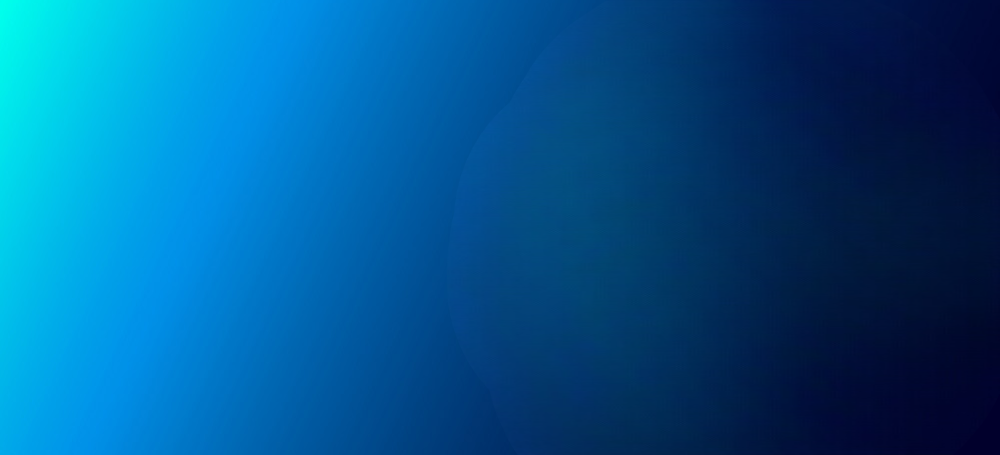
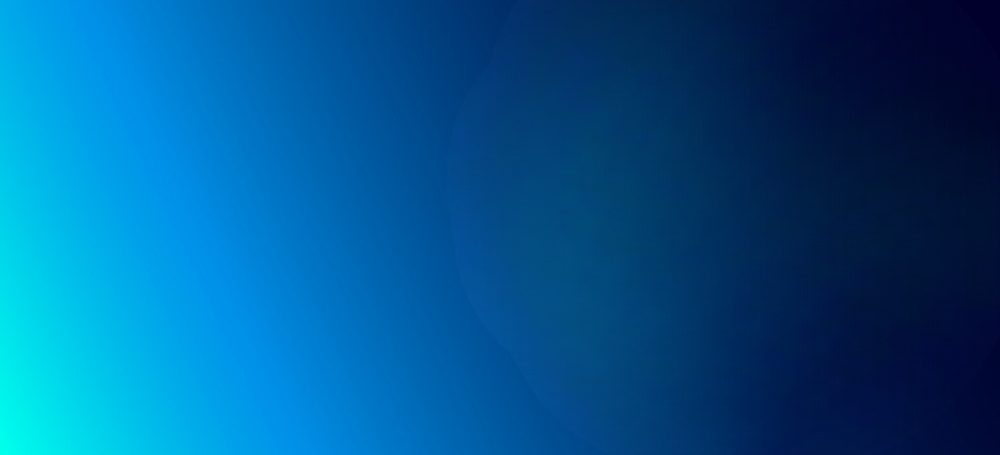
new features

diff --git a/src/components/Cases.jsx b/src/components/Cases.jsx
@@ -1,0 +1,50 @@
+import React, { useRef, useState } from 'react';
+import { Swiper, SwiperSlide } from 'swiper/react';
+
+import 'swiper/css';
+import 'swiper/css/pagination';
+
+import { Pagination } from 'swiper/modules';
+import { casesImages, navLinks } from '../constants';
+
+const Cases = () => {
+  return (
+    <Swiper
+        slidesPerView={1}
+        spaceBetween={10}
+        pagination={{
+          clickable: true,
+        }}
+        breakpoints={{
+          '@0.00': {
+            slidesPerView: 1,
+            spaceBetween: 10,
+          },
+          '@0.75': {
+            slidesPerView: 2,
+            spaceBetween: 20,
+          },
+          '@1.00': {
+            slidesPerView: 3,
+            spaceBetween: 40,
+          },
+          '@1.50': {
+            slidesPerView: 6,
+            spaceBetween: 50,
+          },
+        }}
+        modules={[Pagination]}
+        style={{ backgroundPosition: window.innerWidth < 1024 && '50% 50%' }}
+        className="mySwiper flex flex-col-reverse justify-center gap-y-24 items-center min-h-screen bg-[url(/./assets/images/bg-normal2.png)] bg-no-repeat bg-cover"
+      >
+        <h2 className="text-2xl lg:text-5xl">Maskice</h2>
+        {casesImages.map((single, i) => (
+            <SwiperSlide key={i} className='h-[400px] flex items-center justify-center'>
+                <img src={single} alt="case" className='h-full' />
+            </SwiperSlide>
+        ))}
+      </Swiper>
+  )
+}
+
+export default Cases

diff --git a/src/components/Header.jsx b/src/components/Header.jsx
@@ -2,8 +2,8 @@ import React from 'react'
 
 const Header = () => {
   return (
-    <div id='pocetak' style={{ backgroundPosition: window.innerWidth < 1024 && '100% 50%' }} className=' text-white bg-[url(/./assets/images/landing-img.png)] flex flex-col gap-y-12 justify-center items-start px-4 lg:px-36 bg-no-repeat bg-cover h-screen w-full'>
-        <div className="absolute inset-0 w-full h-full backdrop-blur-sm lg:backdrop-blur-md"></div>
+    <div id='pocetak' style={{ backgroundPosition: window.innerWidth < 1024 && '50% 50%' }} className=' text-white flex flex-col gap-y-12 justify-center items-start px-4 lg:px-36 bg-[url(/./assets/images/landing-img.png)] bg-no-repeat bg-cover h-screen w-full'>
+        {/* <div className="absolute inset-0 w-full h-full backdrop-blur-sm lg:backdrop-blur-md"></div> */}
         <h1 style={{textShadow: '1px 1px 10px #000',}} className='text-2xl lg:text-4xl font-black z-10'>Vaš Sledeći Pametni Telefon Vas Čeka!</h1>
         <h2 className='z-10'>Istražite našu široku ponudu pametnih telefona i dodataka. <br /> Kvalitet, performanse i pristupačnost na jednom mestu.</h2>
     </div>

diff --git a/src/components/Location.jsx b/src/components/Location.jsx
@@ -1,0 +1,18 @@
+import React from "react";
+
+const Location = () => {
+  return (
+    <div style={{ backgroundPosition: window.innerWidth < 1024 && '50% 50%' }} className="py-12 px-6 lg:px-36 min-h-screen  bg-[url(/./assets/images/bg-mirror2.png)] bg-no-repeat bg-left bg-cover">
+      <div className="rounded-2xl">
+        <iframe
+          width="100%"
+          className="h-[300px] xl:h-[600px] rounded-2xl -translate-y-0 xl:-translate-y-10"
+          frameBorder="0"
+          src="https://www.google.com/maps/embed?pb=!1m18!1m12!1m3!1d5888.813538624163!2d20.473466668841695!3d44.75677776370621!2m3!1f0!2f0!3f0!3m2!1i1024!2i768!4f13.1!3m3!1m2!1s0x475a71043e935857%3A0xcf2f6c0eeaff0ca3!2sShopping%20Mall%20Banjica!5e0!3m2!1sen!2srs!4v1719229050073!5m2!1sen!2srs"
+        ></iframe>
+      </div>
+    </div>
+  );
+};
+
+export default Location;

diff --git a/src/components/Navbar.jsx b/src/components/Navbar.jsx
@@ -49,7 +49,7 @@ const Navbar = () => {
       </a>
       <Burger navOpen={navOpen} toggleNav={toggleNav} />
       <div
-        className={`border-b-4 border-blue-500 lg:border-none py-8 lg:py-0 z-[9999999] rounded-b-xl  lg:rounded-b-none backdrop-blur-lg lg:backdrop-blur-none lg:bg-none flex flex-col lg:flex-row items-center gap-x-8 fixed lg:static ${navOpen ? "top-20" : "-top-96"} transition-all left-0 right-0 gap-y-8`}
+        className={`border-b-4 border-blue-500 lg:border-none py-8 lg:py-0 z-[9999999] rounded-b-xl  lg:rounded-b-none backdrop-blur-lg lg:backdrop-blur-none lg:bg-none flex flex-col lg:flex-row w-48 lg:w-auto items-center gap-x-8 fixed lg:static top-20 ${navOpen ? "right-0" : "-right-full"} transition-all gap-y-8`}
       >
         {navLinks.map((link) => (
           <a

diff --git a/src/components/Model.jsx b/src/components/Model.jsx
@@ -51,7 +51,9 @@ const Model = () => {
   // }, []);
 
   return (
-    <section id="ajfon15" className="common-padding min-h-screen bg-[url(/./assets/images/bg-mirror.png)] bg-no-repeat bg-cover">
+    <section id="ajfon15" style={{ backgroundPosition: window.innerWidth < 1024 && '50% 50%' }} className="common-padding min-h-screen bg-[url(/./assets/images/bg-mirror2.png)] bg-no-repeat bg-left bg-cover">
+        {/* <div className="absolute inset-0 w-full h-full backdrop-blur-sm lg:backdrop-blur-md"></div> */}
+      
       <div className="screen-max-width">
         <h1 id="heading" className="translate-y-8 text-2xl lg:text-4xl text-center font-bold">
           Okrenite

diff --git a/src/index.css b/src/index.css
@@ -17,3 +17,17 @@ html {
 .size-btn {
   @apply w-10 h-10 text-sm flex justify-center items-center bg-white text-black rounded-full transition-all
 }
+
+/* HTML: <div class="loader"></div> */
+.loader {
+  width: 50px;
+  aspect-ratio: 1;
+  border-radius: 50%;
+  background: white;
+  -webkit-mask: radial-gradient(circle closest-side at 50% 40%,#0000 94%, #000);
+  transform-origin: 50% 40%;
+  animation: l25 1s infinite linear;
+}
+@keyframes l25 {
+  100% {transform: rotate(1turn)}
+}

diff --git a/src/constants/index.js b/src/constants/index.js
@@ -59,3 +59,14 @@ export const navLinks = [
       text: "Kontakt",
     },
   ];
+
+  export const casesImages = [
+    "/./assets/images/case1.png",
+    "/./assets/images/case2.png",
+    "/./assets/images/case3.png",
+    "/./assets/images/case4.png",
+    "/./assets/images/case5.png",
+    "/./assets/images/case6.png",
+    "/./assets/images/case7.png",
+    "/./assets/images/case8.png",
+]

diff --git a/src/App.jsx b/src/App.jsx
@@ -1,4 +1,6 @@
+import Cases from "./components/Cases";
 import Header from "./components/Header";
+import Location from "./components/Location";
 import Model from "./components/Model";
 import Navbar from "./components/Navbar";
 
@@ -8,6 +10,8 @@ function App() {
       <Navbar />
       <Header />
       <Model />
+      <Cases />
+      <Location />
     </div>
   );
 }

diff --git a/src/components/Loader.jsx b/src/components/Loader.jsx
@@ -4,11 +4,7 @@ import React from 'react'
 const Loader = () => {
   return (
     <Html>
-      <div className="absolute top-0 left-0 w-full h-full flex justify-center items-center">
-        <div className="w-[10vw] h-[10vw] rounded-full">
-          Loading...
-        </div>
-      </div>
+      <div className="loader"></div>
     </Html>
   )
 }

diff --git a/index.html b/index.html
@@ -4,7 +4,7 @@
     <meta charset="UTF-8" />
     <link rel="icon" type="image/svg+xml" href="/assets/images/logo-sign.avif" />
     <meta name="viewport" content="width=device-width, initial-scale=1.0" />
-    <title>Vite + React</title>
+    <title>GBMT Mobile</title>
   </head>
   <body>
     <div id="root"></div>
